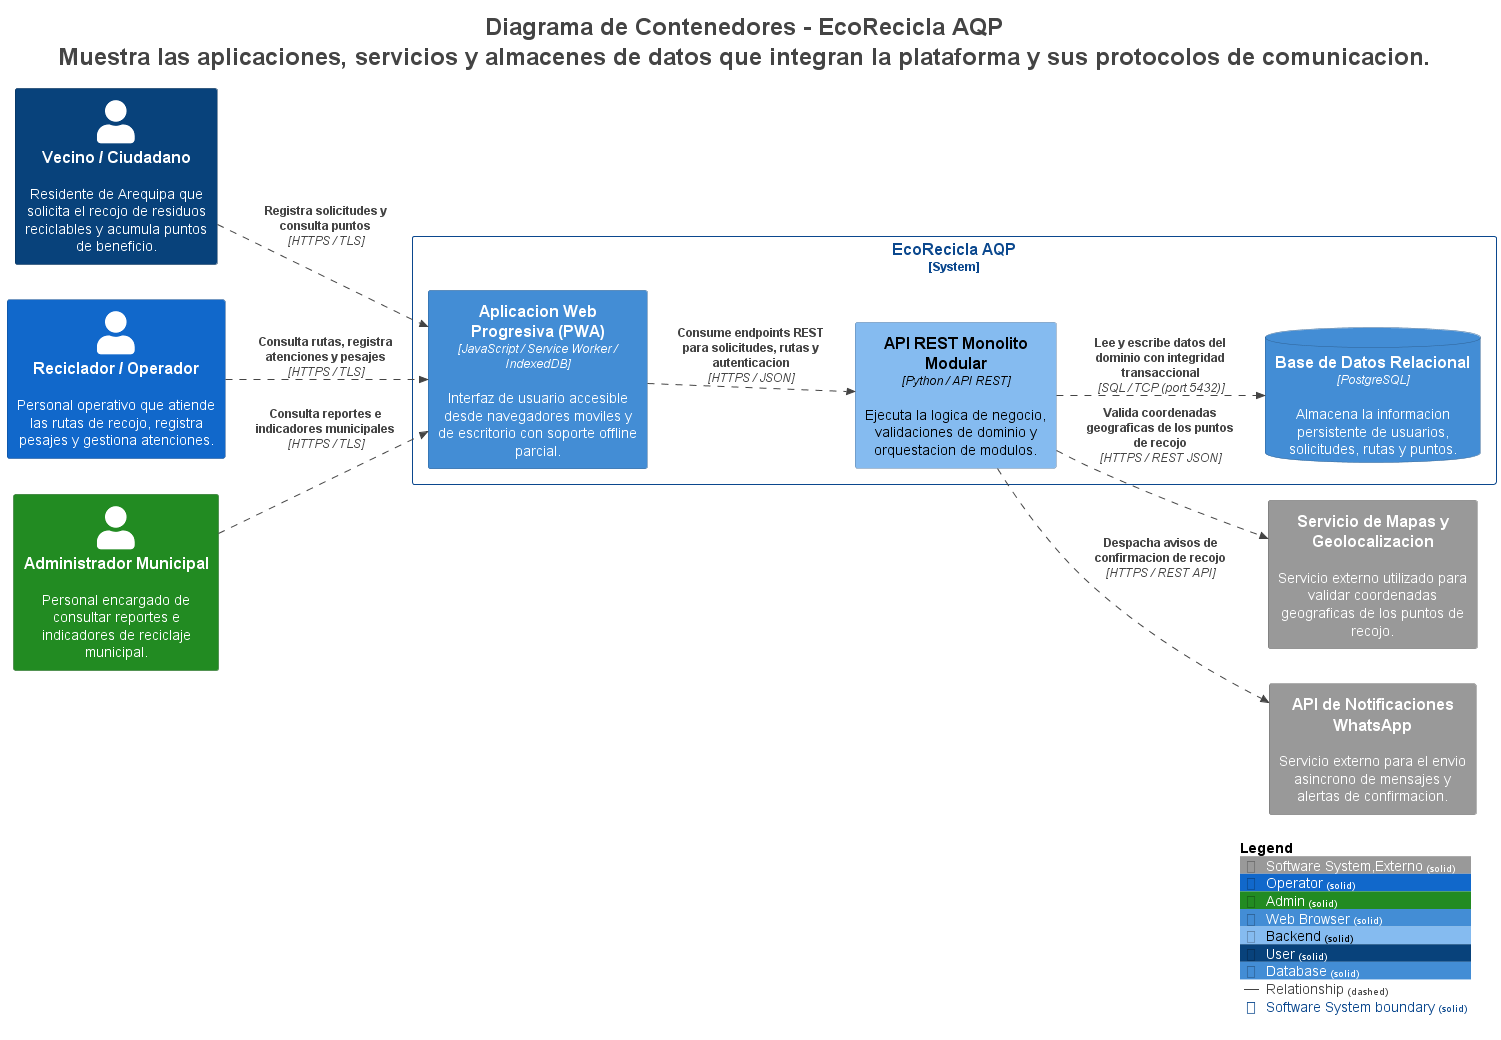
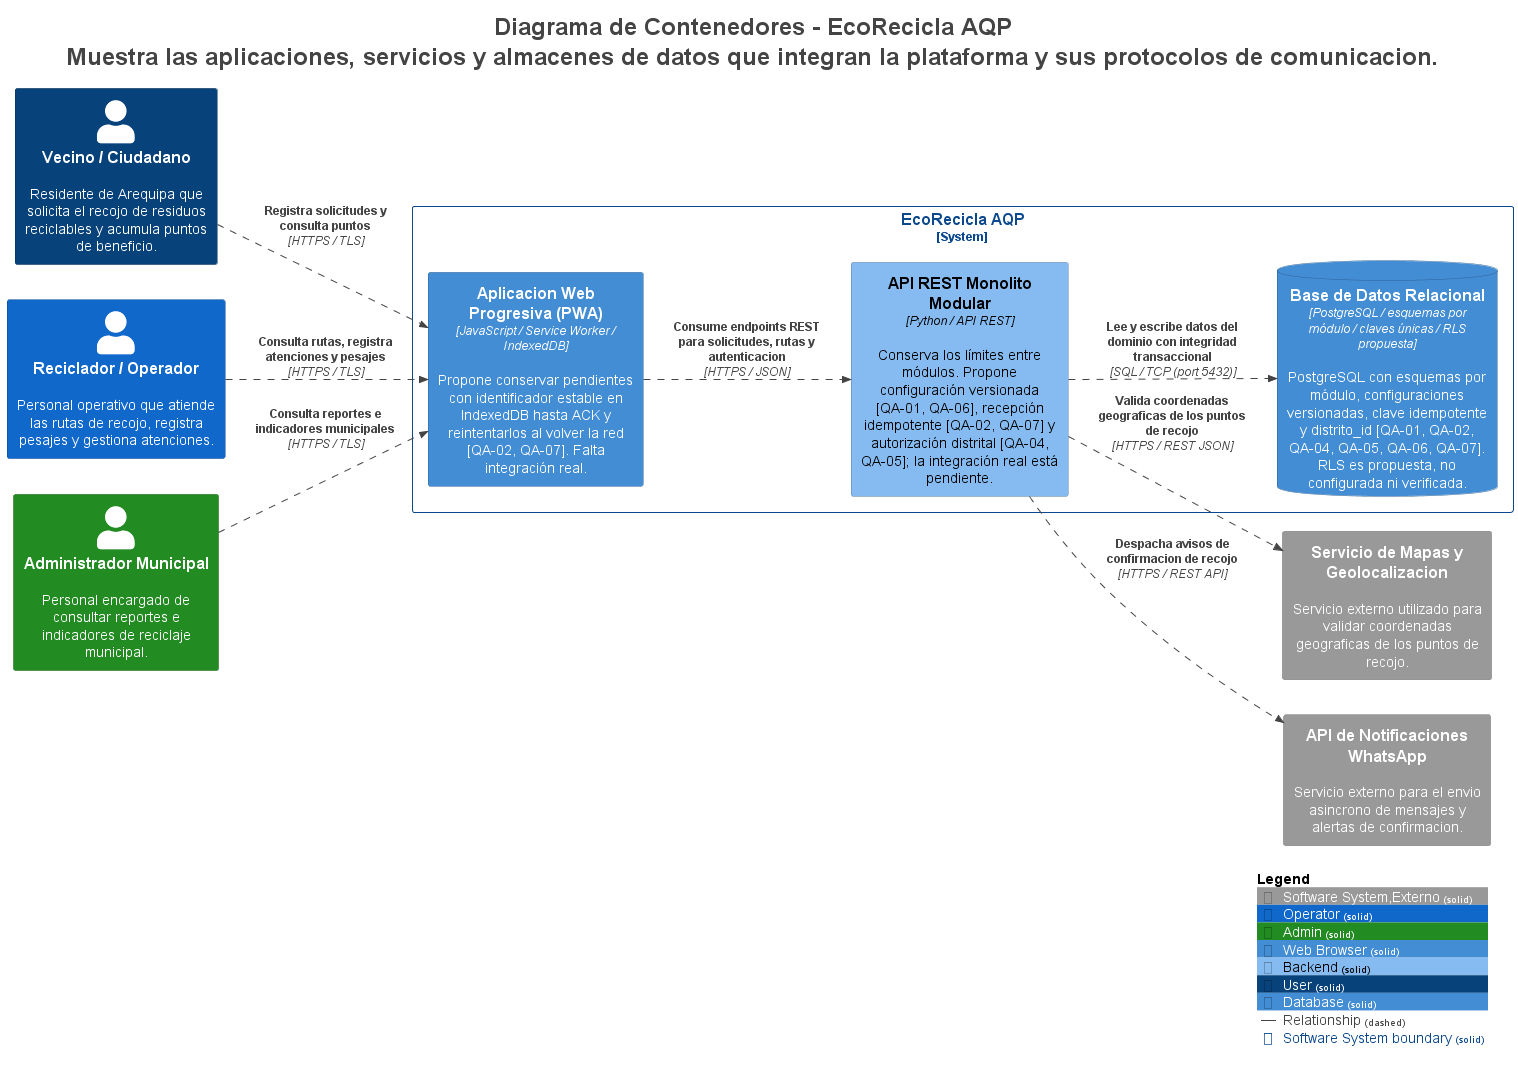
fix: corregir flujo de sincronizacion y regenerar vistas C4

Changed region(s): [[0.0, 0.0, 1.0, 0.9846], [0.1839, 0.1846, 0.2758, 0.2462]]

diff --git a/docs/architecture/bitacora-ia.md b/docs/architecture/bitacora-ia.md
@@ -141,3 +141,10 @@ Instrucción aplicada a la iteración 3: «Refina QA-04 y QA-05 para doce distri
 El prototipo denegó 264 operaciones cruzadas y 72 sin ámbito válido, permitió 24 propias y conservó los datos. El control negativo inseguro permite 132 lecturas y 132 escrituras, es sintético y no prueba una vulnerabilidad del Lab07. Se propone contexto autorizado y defensa RLS posterior, sin declarar tokens o políticas SQL ya implementados. No hay riesgo crítico recibido de otro grupo porque E3 sigue pendiente.
 
 Verificaciones realizadas: ejecución de los tres prototipos, cuatro rechazos de configuración inválida, sintaxis Python y enlaces relativos nuevos. Las 138 pruebas de comportamiento y patrones del Lab07 siguen pasando. Se revisaron los resultados JSON y su correspondencia con las tablas ADD. git diff --check sin errores. No se incorpora la carpeta de ejemplos, los cambios anteriores ni entregables E5-E8.
+
+
+### Lab08 · E6 · Apoyo en revisión y corrección (2026-11-01)
+
+Se alineó ADR-006 con la estimación de E2, diferenciando 1.60 días-persona centrales de 2.50 en el caso pesimista, sin presentarlos como tiempo medido. En C4 se corrigió el receptor de sincronización para exigir autorización distrital y delegar en Solicitudes las operaciones de dominio con guardas State, dejando la transacción de efecto y clave dentro del módulo. Se retiró el acceso directo del receptor a la base de datos.
+
+Se ejecutó Structurizr validate y se regeneraron las cinco vistas en C4-PlantUML y Mermaid. Las cinco fuentes PlantUML pasaron checkonly y se renderizaron, se revisaron visualmente los cuatro PNG que cambiaron. Se comprobaron los enlaces de los tres ADR y la ausencia de ciclos entre componentes. Mermaid se exportó, no se renderizó con un motor Mermaid. Estos cambios son de documentación y diseño, no implementan JWT, RLS ni la PWA real. Los archivos ajenos a E6 se conservan fuera de los commits.
